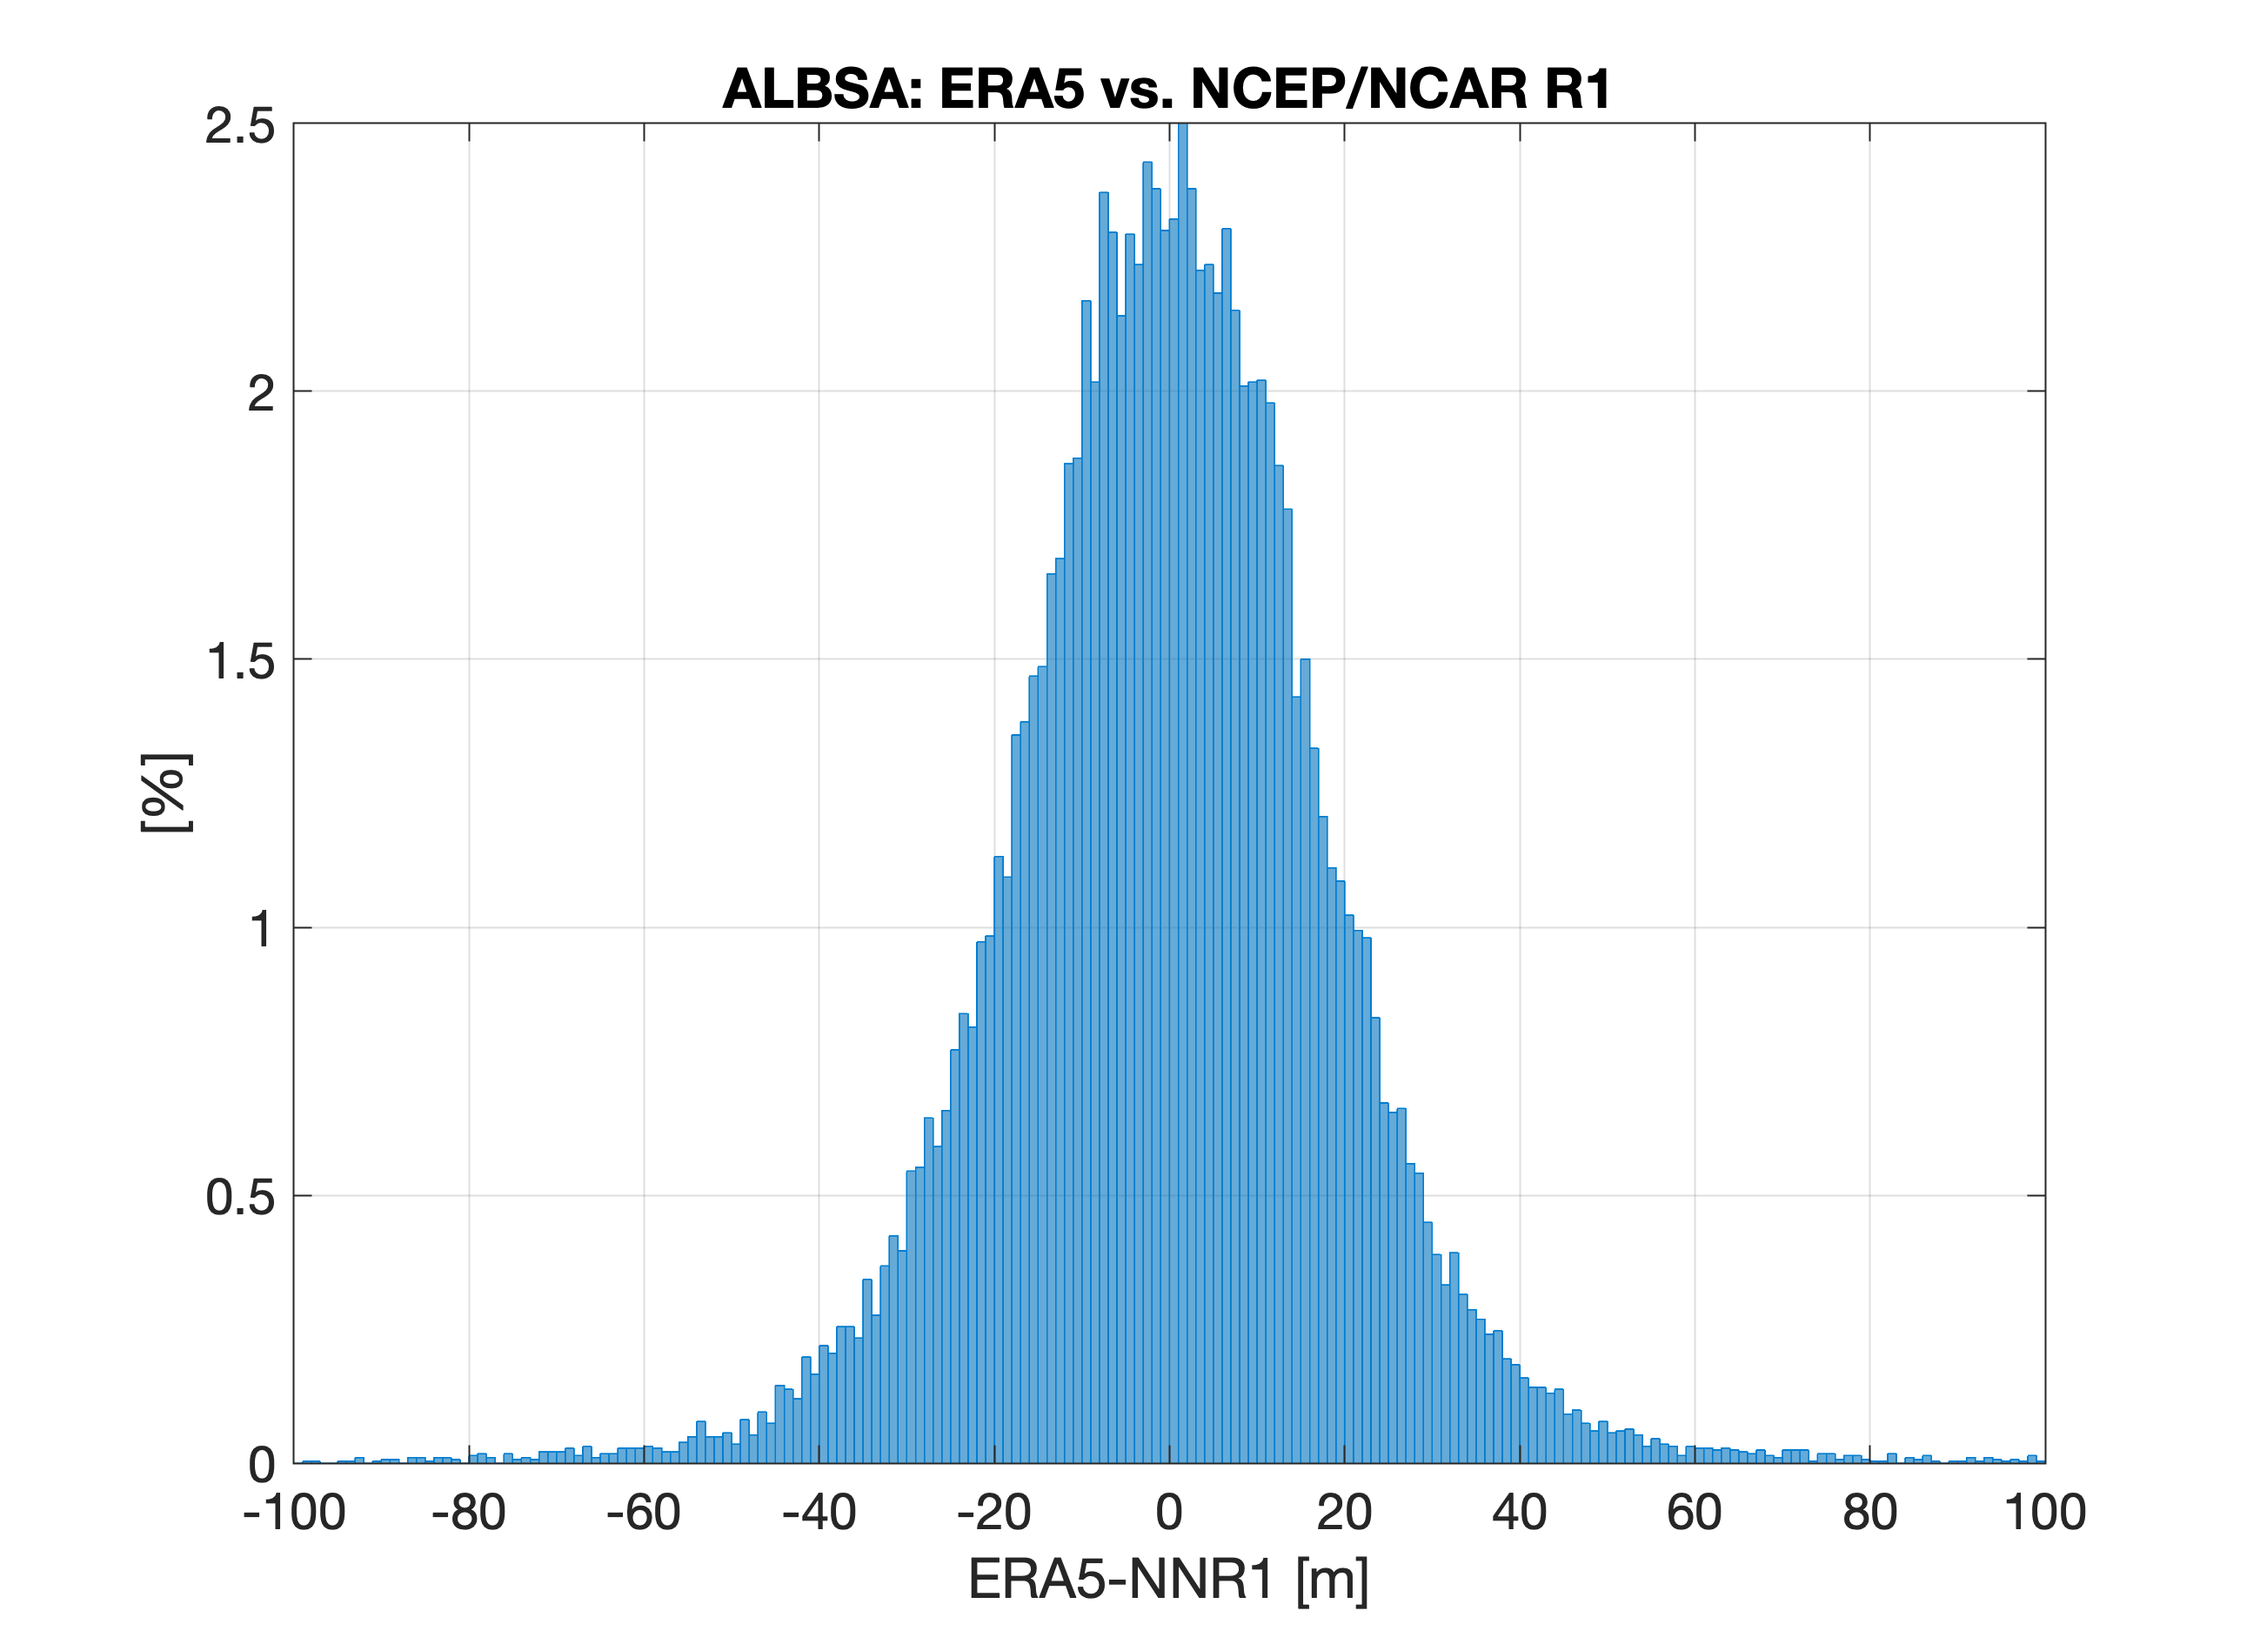
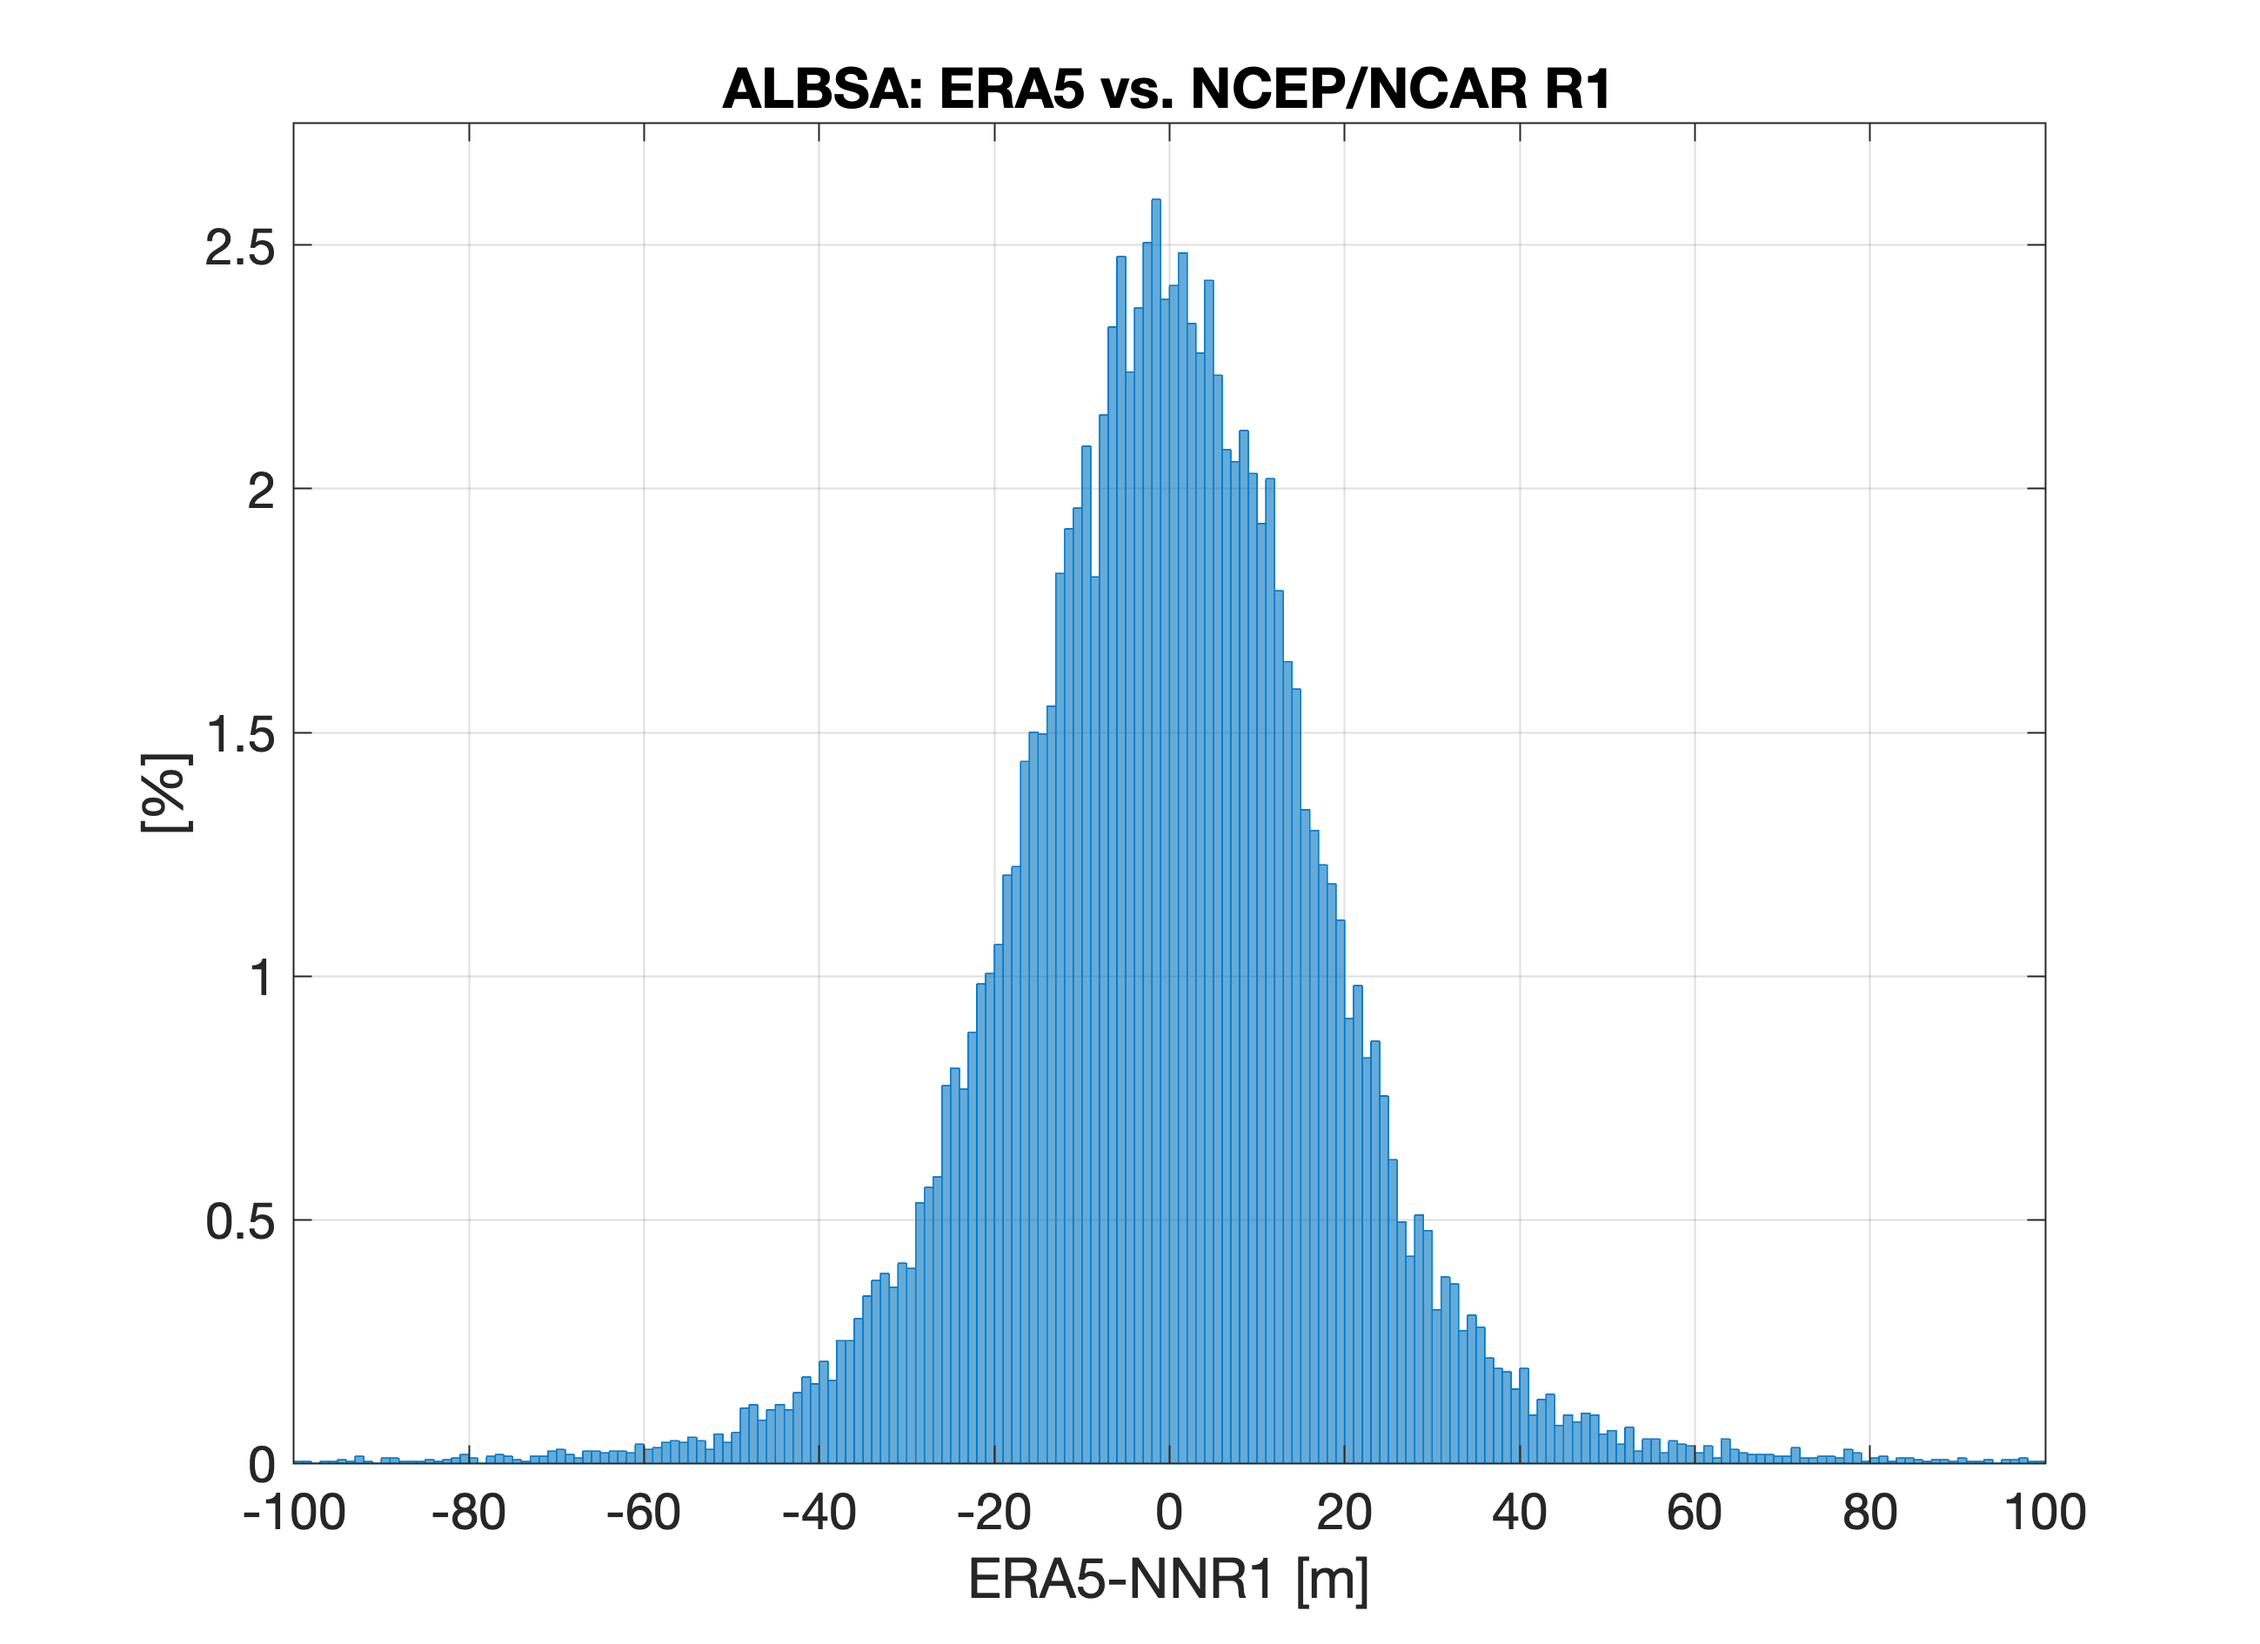
update readme, bug fixes

diff --git a/calc_albsa.py b/calc_albsa.py
@@ -23,7 +23,7 @@
 #
 # The index has been most commonly defined based on the NCEP/NCAR Reanalysis 1, but in depreciation 
 #   this routine calculates ALBSA using the ECMWF ERA5 reanalysis.
-# Testing in May 2025 shows differences between the reanalyses of mean 1.5e-5 m, std 19.39 m, averaged for all 
+# Testing in May 2025 shows differences between the reanalyses of mean -0.24 m, std 19.5 m, averaged for all 
 #   days overlapping 1948-2025 (n = 28259). The mean absolute value of the error variance is ~0.035%.
 # This code handles the download from ECMWF, the calculation, and the writes the new NetCDF.
 #
@@ -78,14 +78,14 @@
 import os, shutil, argparse, cdsapi, datetime, glob, xarray as xr
 
 # filenames
-fname = 'albsa_index.nc' # the new file name
+fname = "albsa_index.nc" # the new file name
 
 # you are required to provide a directory path
 # you are permitted to specify beginning and end dates (year granularity)
 parser = argparse.ArgumentParser()
-parser.add_argument('-p', '--path', metavar='str', help='path to working directory, include trailing /')
-parser.add_argument('-s', '--start_date', metavar='str', help='beginning of processing period, yyyy')
-parser.add_argument('-e', '--end_date', metavar='str', help='ending of processing period, yyyy')
+parser.add_argument("-p", "--path", metavar="str", help="path to working directory, include trailing /")
+parser.add_argument("-s", "--start_date", metavar="str", help="beginning of processing period, yyyy")
+parser.add_argument("-e", "--end_date", metavar="str", help="ending of processing period, yyyy")
 args = parser.parse_args()
 
 try: working_dir = args.path
@@ -157,12 +157,12 @@ def main():
     #   this needs to be batched. limits for CDS are 60K "items", which is 1 field x 1 var x 1 level x n time steps
     #   for this application at 4x/day, 20 years is about 30K. So lets do 20 year batches.
     batch_size = 5
-    for i in range(0, len(yrlist), batch_size):
-        era5_downloader(yrlist[i:i+batch_size],'tmp_'+yrlist[i]+'.nc')
+    #for i in range(0, len(yrlist), batch_size):
+    #    era5_downloader(yrlist[i:i+batch_size],"tmp_"+yrlist[i]+".nc")
 
     # open the temporary ERA5 files using xarray and merge them into one xr.Dataset()
     file = xr.Dataset()
-    for filename in glob.glob(working_dir+'tmp*.nc'):
+    for filename in glob.glob(working_dir+"tmp*.nc"):
         filetmp = xr.open_dataset(filename)
         file = xr.merge([file,filetmp])
 
@@ -184,34 +184,73 @@ def main():
     # 850 hPa daily mean GPH at 4 ALBSA coordinates.
     # The method is NN, but the data has been downloaded on pre-processed 2.5d grid, 
     #   which is a coarser, but divisible resampling of the native 0.25d grid.  
-    Scoord = file.sel(latitude=laS, longitude=loS, method="nearest")/10
-    Ncoord = file.sel(latitude=laN, longitude=loN, method="nearest")/10
-    Ecoord = file.sel(latitude=laE, longitude=loE, method="nearest")/10
-    Wcoord = file.sel(latitude=laW, longitude=loW, method="nearest")/10
+    Scoord = file.sel(latitude=laS, longitude=loS, method="nearest")/9.81
+    Ncoord = file.sel(latitude=laN, longitude=loN, method="nearest")/9.81
+    Ecoord = file.sel(latitude=laE, longitude=loE, method="nearest")/9.81
+    Wcoord = file.sel(latitude=laW, longitude=loW, method="nearest")/9.81
 
     # calculate ALBSA index
     #   Eq. (3) from Cox et al. (2019)
     albi = ( Ecoord.z - Wcoord.z ) - ( Ncoord.z - Scoord.z )
     file = file.assign(index=albi.transpose())
-
-    print(file)
     
     # housekeeping
-    file['number'].drop_attrs()
-    file = file.drop_vars('number') 
-    file['z'] = file['z'].squeeze()
-    file['latitude'] = file['latitude'].astype('float32')
-    file['longitude'] = file['longitude'].astype('float32')
+    file["number"].drop_attrs()
+    file = file.drop_vars("number") 
+    file["z"] = file["z"].squeeze()
+    file["latitude"] = file["latitude"].astype("float32")
+    file["longitude"] = file["longitude"].astype("float32")
 
     # if an existing data set is found, politely move it
     if os.path.isfile(working_dir+fname):
-        shutil.move(working_dir+fname, working_dir+fname+'.arch')
+        shutil.move(working_dir+fname, working_dir+fname+".arch")
+
+    # we will carry most of the attributes, but "index" is a new var, so create some
+    file["index"] = file["index"].assign_attrs({"long_name": "ALBSA index"})
+    file["index"] = file["index"].assign_attrs({"units": "meters"})
+    file["index"] = file["index"].assign_attrs({"standard_name": " "})
+
+    # global attributes
+    file.attrs["title"] = "Aleutian Low-Beaufort Sea Anticyclone (ALBSA) index"
+    file.attrs["source"] = "ECMWF Reanalysis v5 (ERA5)"
+    file.attrs["date_created"] = datetime.datetime.now().strftime("%Y-%m-%d %H:%M:%S")
+    file.attrs["file_creator"] = "Christopher J. Cox"
+    file.attrs["creator_email"] = "christopher.j.cox@noaa.gov"
+    file.attrs["insitution"] = "National Oceanic and Atmospheric Administration (NOAA) Physical Sciences Laboratory (PSL)"
+    file.attrs['methods'] = "Calculation based on the study of Cox et al. (2019)."
+    file.attrs['keywords'] = "Arctic, climate index, snow, Alaska, atmospheric advection, sea ice"
+    file.attrs["acknowledgements"] = """This product was generated using the Copernicus Climate Change Service information (CCCS/CDS, 2023) using data ECMWF Reanalysis v5 (ERA5) (Hersbach, et al. 2020; Hersbach et al., 2023)."""
+    file.attrs["references"] = """References:
+    
+                                Copernicus Climate Change Service, Climate Data Store, (2023): ERA5 hourly data on pressure levels from 1940 to present. 
+                                    Copernicus Climate Change Service (C3S) Climate Data Store (CDS), https://doi.org/10.24381/cds.bd0915c6
+
+                                Cox, C. J., R. S. Stone, D. C. Douglas, D. M. Stanitski, and D. C. Douglas (2019), The Aleutian Low - 
+                                    Beaufort Sea Anticyclone: A climate index correlated with the timing of springtime melt in the
+                                    Pacific Arctic cryosphere. Geophysical Research Letters, 46(13), 7464-7473, 
+                                    https://doi.org/10.1029/2019GL083306
+
+                                Hersbach, H., B. Bell, P. Berrisford, G. Biavati, A. Horányi, J. Muñoz Sabater, J. Nicolas, C. Peubey, C., 
+                                    R. Radu, I. Rozum, D. Schepers, A. Simmons, C. Soci, D. Dee, and J.-N. Thépaut (2023): ERA5 hourly data on 
+                                    pressure levels from 1940 to present. Copernicus Climate Change Service (C3S) Climate Data Store (CDS), 
+                                    https://doi.org/10.24381/cds.bd0915c6
+
+                                Hersbach, H., B. Bell, P. Berrisford, S. Hirahara, A. Horányi, J. Muñoz-Sabater, J. Nicolas, C. Peubey, 
+                                    R.Radu, D. Schepers, A. Simmons, C. Soci, S. Abdalla, X. Abellan, G. Balsamo, P. Bechtold, G. Biavati, 
+                                    J. Bidlot, M. Bonavita, G. De Chiara, P. Dahlgren, D. Dee, M. Diamantakis, R. Dragani, J. Flemming, 
+                                    R. Forbes, M. Fuentes, A. Geer, L. Haimberger, S. Healy, R. J. Hogan, E. Hólm, M. Janisková, S. Keeley, 
+                                    P. Laloyaux, P. Lopez, C. Lupu, G. Radnoti, P. de Rosnay, I. Rozum, F. Vamborg, S. Villaume, and J.-N. Thépaut 
+                                    (2020) The ERA5 global reanalysis. Quarterly Journal of the Royal Meteorological Society, 146(730), 1999-2049,
+                                    https://doi.org/10.1002/qj.3803"""
+    
+
 
     # write back to new file
     file.to_netcdf(working_dir+fname)
+    file.close()
 
-    # delete the intermediary file
-    #for filename in glob.glob(working_dir+'tmp*.nc'):
+    # delete the intermediary files
+    #for filename in glob.glob(working_dir+"tmp*.nc"):
     #    os.remove(filename)
 
 

diff --git a/README.md b/README.md
@@ -11,7 +11,7 @@ It is a 4-pt index on the geopotential height field a 850 hPa where the points a
    ALBSA = ( E-W ) - ( N - S ) and is expressed in meters of GPH
 
 The index has been most commonly defined based on the NCEP/NCAR Reanalysis 1, but in depreciation this routine calculates ALBSA using the ECMWF ERA5 reanalysis.
-Testing in May 2025 shows differences between the reanalyses of mean 1.5e-5 m, std 19.39 m, averaged for all days overlapping 1948-2025 (n = 28259). The mean
+Testing in May 2025 shows differences between the reanalyses of mean -0.24 m, std 19.5 m, averaged for all days overlapping 1948-2025 (n = 28259). The mean
 absolute value of the error variance is ~0.035%. This code handles the download from ECMWF, the calculation, and the writes the new NetCDF.
 A histogram of the differences:
 
